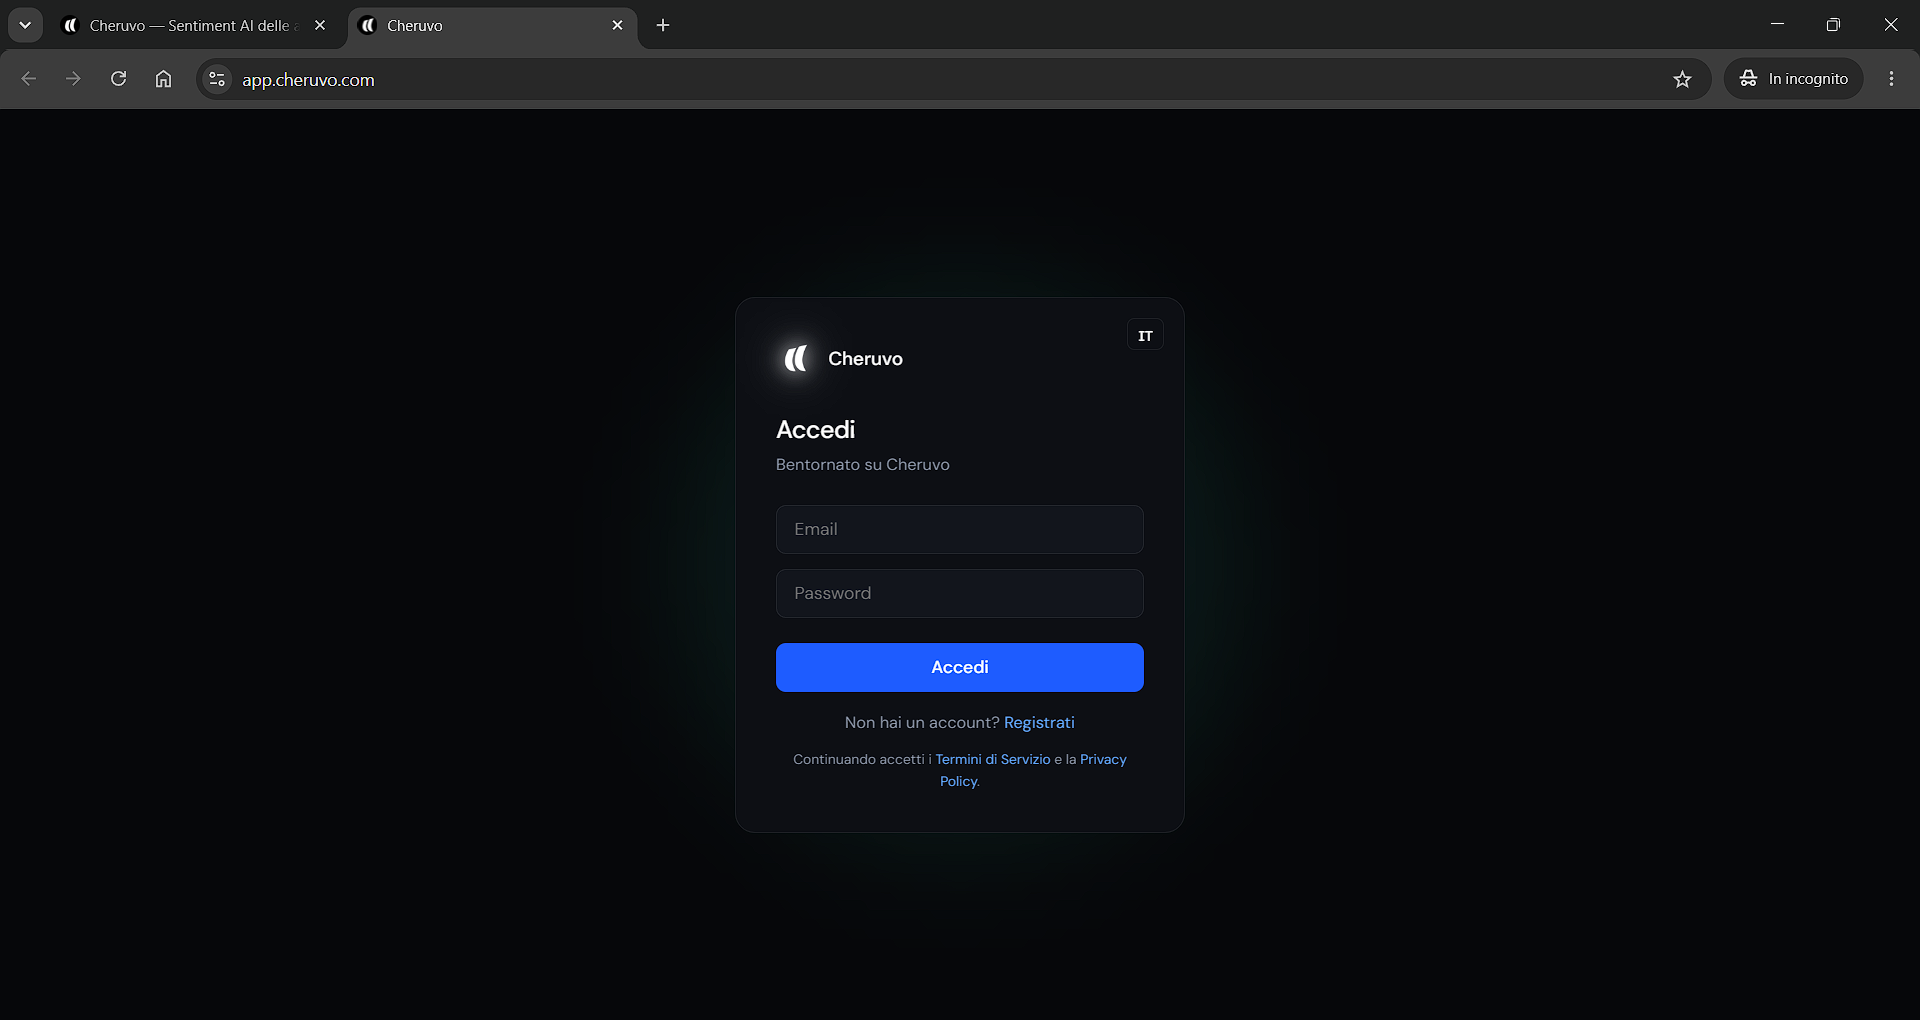
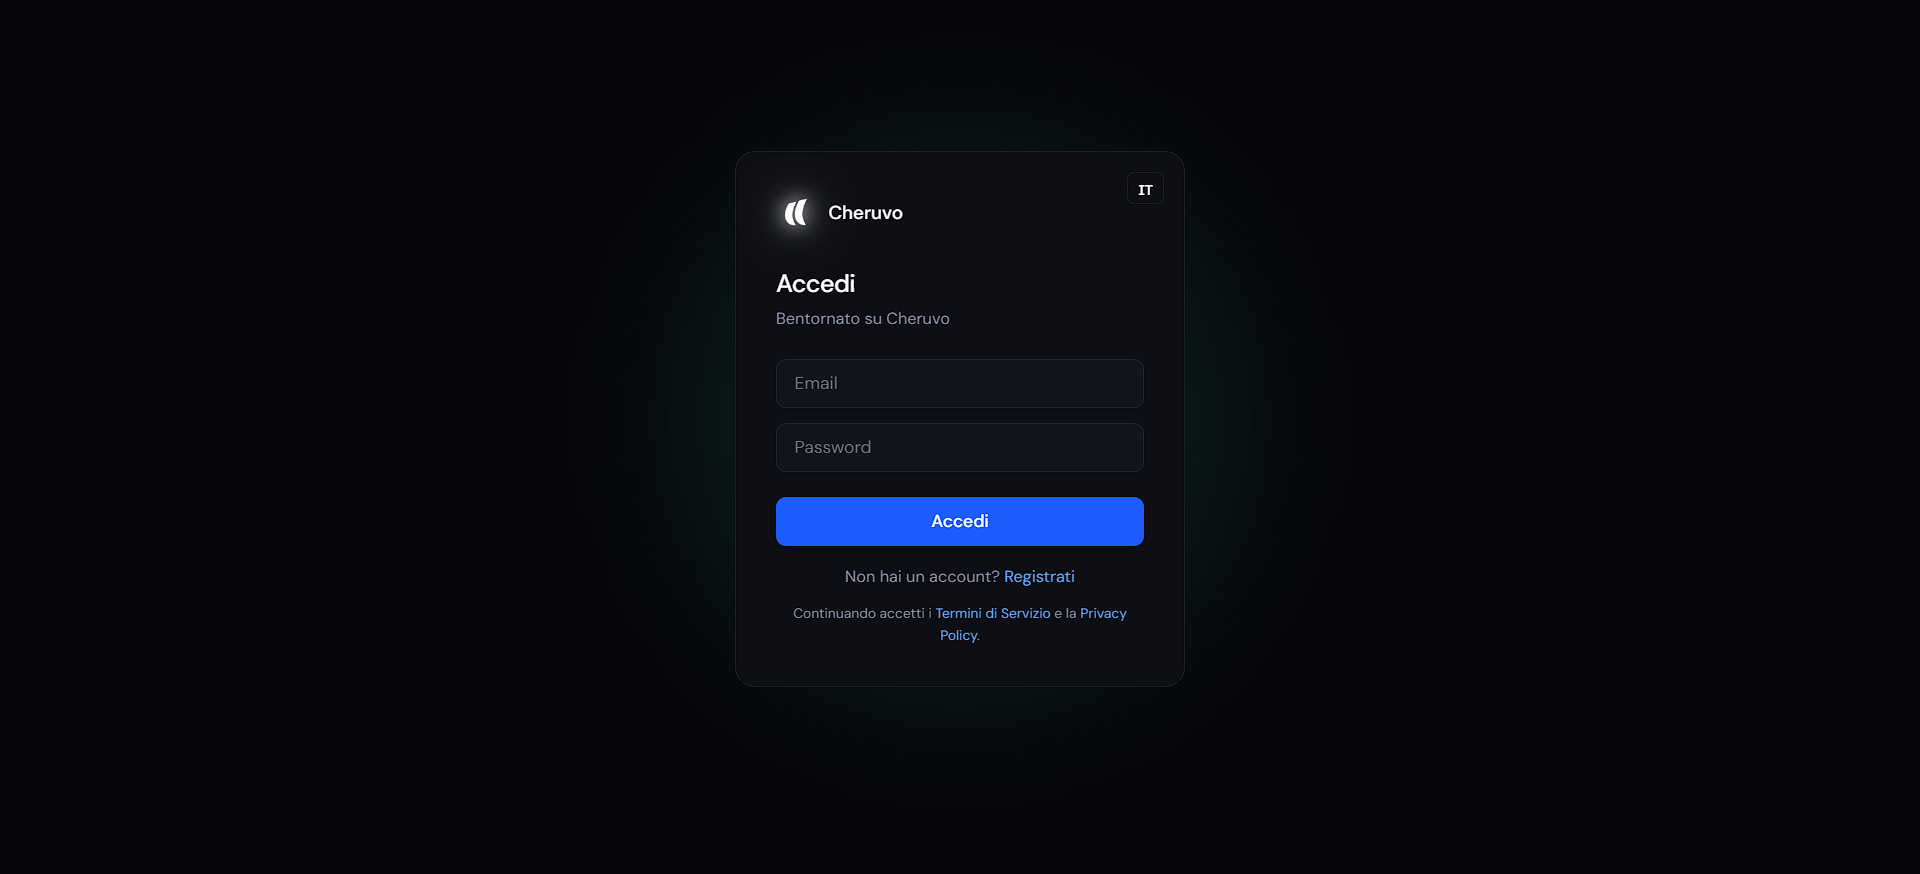
caioafo

diff --git a/docs/guida.html b/docs/guida.html
@@ -63,6 +63,13 @@
   .shot-ph { display:flex; flex-direction:column; align-items:center; justify-content:center; gap:8px; min-height:200px; border:2px dashed var(--border); border-radius:12px; color:var(--muted); font-size:13px; text-align:center; padding:24px; background:var(--card); }
   .shot-ph b { color:var(--off-white); font-family:monospace; font-size:12.5px; }
   figcaption { color:var(--muted); font-size:12.5px; margin-top:8px; text-align:center; }
+  figure.shot img { cursor:zoom-in; transition:border-color .15s; }
+  figure.shot img:hover { border-color:var(--azure); }
+  /* Lightbox: ingrandisci lo screenshot al clic */
+  #lightbox { position:fixed; inset:0; z-index:100; background:rgba(3,4,8,.93); display:none; align-items:center; justify-content:center; padding:24px; cursor:zoom-out; backdrop-filter:blur(4px); }
+  #lightbox.open { display:flex; }
+  #lightbox img { max-width:100%; max-height:100%; border:1px solid var(--border); border-radius:10px; box-shadow:0 24px 90px rgba(0,0,0,.75); }
+  #lightbox .lb-close { position:fixed; top:16px; right:22px; color:#fff; font-size:26px; line-height:1; background:none; border:none; cursor:pointer; opacity:.85; }
 
   .divider { height:1px; background:linear-gradient(90deg,transparent,rgba(255,255,255,.08),transparent); margin:40px 0; border:none; }
   footer { border-top:1px solid var(--border); padding:26px 24px; text-align:center; color:var(--muted); font-size:13px; }
@@ -233,6 +240,8 @@
   </main>
 </div>
 
+<div id="lightbox" aria-hidden="true"><button class="lb-close" aria-label="Chiudi">✕</button><img alt=""></div>
+
 <footer>© 2026 Cheruvo · <a href="index.html">cheruvo.com</a> · <a href="blog/">Blog</a> · <a href="privacy.html">Privacy</a> · <a href="termini.html">Termini</a></footer>
 
 <script>
@@ -312,6 +321,19 @@
     })
   }, { rootMargin: '-130px 0px -70% 0px' })
   document.querySelectorAll('main h2').forEach(function (h) { obs.observe(h) })
+})();
+
+// ── Lightbox: clicca uno screenshot per ingrandirlo ────────────────────────
+(function () {
+  var lb = document.getElementById('lightbox')
+  var lbImg = lb.querySelector('img')
+  function open(src, alt) { lbImg.src = src; lbImg.alt = alt || ''; lb.classList.add('open'); lb.setAttribute('aria-hidden', 'false') }
+  function close() { lb.classList.remove('open'); lb.setAttribute('aria-hidden', 'true'); lbImg.src = '' }
+  document.querySelectorAll('figure.shot img').forEach(function (img) {
+    img.addEventListener('click', function () { open(img.src, img.alt) })
+  })
+  lb.addEventListener('click', close)
+  document.addEventListener('keydown', function (e) { if (e.key === 'Escape') close() })
 })();
 </script>
 </body>

diff --git a/frontend/src/App.jsx b/frontend/src/App.jsx
@@ -251,6 +251,12 @@ export default function App() {
               border: '1px solid var(--border)', borderRadius: 6, padding: '4px 10px',
               cursor: 'pointer', fontWeight: 500,
             }}><Icon name="academy" size={14} /><span className="hide-mobile"> Academy</span></button>
+            <a href="https://cheruvo.com/guida.html" target="_blank" rel="noreferrer" title={lang === 'it' ? 'Guida all\'uso' : 'User guide'} style={{
+              display: 'inline-flex', alignItems: 'center', textDecoration: 'none',
+              fontSize: 11, color: 'var(--white)', background: 'transparent',
+              border: '1px solid var(--border)', borderRadius: 6, padding: '4px 10px',
+              cursor: 'pointer', fontWeight: 500,
+            }}><Icon name="book" size={13} /><span className="hide-mobile"> {lang === 'it' ? 'Guida' : 'Guide'}</span></a>
             <button onClick={toggleLang} style={{
               fontSize: 13, background: 'transparent', border: '1px solid var(--border)',
               borderRadius: 6, padding: '3px 7px', cursor: 'pointer', lineHeight: 1,
